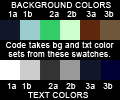
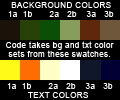
Splash screen uses skin colors for load bar.
"Rebel" and "Default" skin palettes adjusted to fit (still need some grafix work).

git-svn-id: http://svn.slightlymagic.net/forge/trunk@11079 269b9781-a132-4a9b-9d4e-f004f1b56b58

Changed region(s): [[0.0, 0.18, 0.675, 0.42], [0.0, 0.6, 0.675, 0.81]]

diff --git a/src/main/java/forge/view/swing/SplashFrame.java b/src/main/java/forge/view/swing/SplashFrame.java
@@ -15,6 +15,7 @@ import javax.swing.JLabel;
 import javax.swing.KeyStroke;
 import javax.swing.SwingConstants;
 import javax.swing.SwingUtilities;
+import javax.swing.UIManager;
 import forge.gui.skin.FSkin;
 
 import net.slightlymagic.braids.util.progress_monitor.BraidsProgressMonitor;
@@ -121,6 +122,9 @@ public class SplashFrame extends JFrame {
 
         contentPane.getActionMap().put("escAction", new closeAction());
         
+        // Set UI to color splash bar fill with theme colors
+        UIManager.put("ProgressBar.foreground", skin.bg1b);         // Filled
+        UIManager.put("ProgressBar.selectionForeground",skin.txt1a);// Filled
         
         // Instantiate model and view and tie together.
         monitorModel = new SplashProgressModel();
